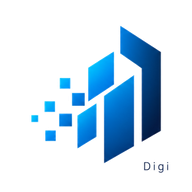
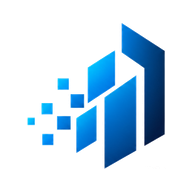
Fjern Digi-merket fra fane- og hjemskjermikon.
Forrige ikonfil hadde «Digi» nederst til høyre, så fanen og
iPhone-snarveien viste feil merke. Ikonene bygges nå fra
ProTop-symbolet uten det vannmerket, og cache-versjon er 7.

Changed region(s): [[0.125, 0.125, 0.875, 0.875], [0.75, 0.8438, 0.9062, 0.9062], [0.4688, 0.3125, 0.5312, 0.3438]]

diff --git a/scripts/generate-app-icons.js b/scripts/generate-app-icons.js
@@ -1,9 +1,8 @@
 /**
- * Build Expo, PWA and store icons from the approved ProTop symbol.
- * Master: brand/ProTop_symbol_square_2048.png (official square).
- * Favicons use a tighter crop so the mark is readable at 16–32 px.
- * Apple touch icons are also written at the site root — iOS looks there
- * first, and the SPA rewrite used to serve HTML as /apple-touch-icon.png.
+ * Build Expo, PWA and store icons from the ProTop mark without the Digi
+ * watermark (that word is not the product name and showed up on the tab
+ * and iPhone home-screen icon).
+ * Master: brand/ProTop_symbol_transparent.png
  * Run: node scripts/generate-app-icons.js
  * Prefer: node scripts/sync-brand-logo.js
  */
@@ -13,65 +12,106 @@ const sharp = require('sharp');
 const toIco = require('to-ico');
 
 const ROOT = path.join(__dirname, '..');
-const SOURCE = path.join(ROOT, 'brand', 'ProTop_symbol_square_2048.png');
+const SOURCE = path.join(ROOT, 'brand', 'ProTop_symbol_transparent.png');
 const WHITE_LOCKUP = path.join(ROOT, 'brand', 'ProTop_logo_white_transparent.png');
 const WHITE = { r: 255, g: 255, b: 255, alpha: 1 };
 const NAVY = { r: 7, g: 39, b: 76, alpha: 1 };
 const TRANSPARENT = { r: 0, g: 0, b: 0, alpha: 0 };
-
-/** Opaque content of the square master is ~72.4% of the canvas. */
-const MASTER_CONTENT = 0.724;
-/** Android adaptive and maskable icons keep artwork inside the center 66%. */
 const SAFE_ZONE = 0.66;
 
-let trimmedMarkCache;
+let cleanMarkCache;
 
-async function trimmedMark() {
-  if (trimmedMarkCache) return trimmedMarkCache;
+function isInk(data, i) {
+  const a = data[i + 3];
+  if (a < 16) return false;
+  return !(data[i] > 248 && data[i + 1] > 248 && data[i + 2] > 248);
+}
+
+/** Drop the small Digi letters that sit bottom-right of the symbol file. */
+async function cleanMark() {
+  if (cleanMarkCache) return cleanMarkCache;
   const { data, info } = await sharp(SOURCE)
     .ensureAlpha()
     .raw()
     .toBuffer({ resolveWithObject: true });
   const { width: w, height: h } = info;
+  const n = w * h;
+  const ink = new Uint8Array(n);
+  for (let p = 0; p < n; p++) ink[p] = isInk(data, p * 4) ? 1 : 0;
+  const label = new Int32Array(n).fill(-1);
+  const sizes = [];
+  const cx = [];
+  const cy = [];
+  let cid = 0;
+  const neigh = [[1, 0], [-1, 0], [0, 1], [0, -1], [1, 1], [1, -1], [-1, 1], [-1, -1]];
+  for (let p = 0; p < n; p++) {
+    if (!ink[p] || label[p] !== -1) continue;
+    let sz = 0;
+    let sx = 0;
+    let sy = 0;
+    const stack = [p];
+    label[p] = cid;
+    while (stack.length) {
+      const cur = stack.pop();
+      const x = cur % w;
+      const y = (cur / w) | 0;
+      sz += 1;
+      sx += x;
+      sy += y;
+      for (const [dx, dy] of neigh) {
+        const nx = x + dx;
+        const ny = y + dy;
+        if (nx < 0 || ny < 0 || nx >= w || ny >= h) continue;
+        const q = ny * w + nx;
+        if (ink[q] && label[q] === -1) {
+          label[q] = cid;
+          stack.push(q);
+        }
+      }
+    }
+    sizes.push(sz);
+    cx.push(sx / sz);
+    cy.push(sy / sz);
+    cid += 1;
+  }
+  const largest = Math.max(0, ...sizes);
+  const drop = new Set();
+  for (let i = 0; i < sizes.length; i++) {
+    if (sizes[i] < largest * 0.15 && cx[i] > w * 0.55 && cy[i] > h * 0.72) drop.add(i);
+  }
   let minX = w;
   let minY = h;
   let maxX = 0;
   let maxY = 0;
-  for (let y = 0; y < h; y++) {
-    for (let x = 0; x < w; x++) {
-      const i = (y * w + x) * 4;
-      const a = data[i + 3];
-      if (a < 12) continue;
-      const r = data[i];
-      const g = data[i + 1];
-      const b = data[i + 2];
-      if (r > 250 && g > 250 && b > 250) continue;
-      if (x < minX) minX = x;
-      if (y < minY) minY = y;
-      if (x > maxX) maxX = x;
-      if (y > maxY) maxY = y;
+  for (let p = 0; p < n; p++) {
+    if (drop.has(label[p])) {
+      data[p * 4 + 3] = 0;
+      continue;
     }
+    if (!ink[p] || drop.has(label[p])) continue;
+    const x = p % w;
+    const y = (p / w) | 0;
+    if (x < minX) minX = x;
+    if (y < minY) minY = y;
+    if (x > maxX) maxX = x;
+    if (y > maxY) maxY = y;
   }
-  const bw = Math.max(1, maxX - minX + 1);
-  const bh = Math.max(1, maxY - minY + 1);
-  const side = Math.max(bw, bh);
-  const left = minX - Math.floor((side - bw) / 2);
-  const top = minY - Math.floor((side - bh) / 2);
-  trimmedMarkCache = await sharp(SOURCE)
+  const buf = Buffer.from(data);
+  cleanMarkCache = await sharp(buf, { raw: { width: w, height: h, channels: 4 } })
     .extract({
-      left: Math.max(0, left),
-      top: Math.max(0, top),
-      width: Math.min(side, w - Math.max(0, left)),
-      height: Math.min(side, h - Math.max(0, top)),
+      left: minX,
+      top: minY,
+      width: Math.max(1, maxX - minX + 1),
+      height: Math.max(1, maxY - minY + 1),
     })
     .png()
     .toBuffer();
-  return trimmedMarkCache;
+  return cleanMarkCache;
 }
 
-async function placeMark(size, { padding = 0.14, opaque = true } = {}) {
+async function placeMark(size, { padding = 0.12, opaque = true } = {}) {
   const inner = Math.max(1, Math.round(size * (1 - 2 * padding)));
-  const mark = await sharp(await trimmedMark())
+  const mark = await sharp(await cleanMark())
     .resize(inner, inner, { fit: 'contain', background: TRANSPARENT })
     .png()
     .toBuffer();
@@ -90,35 +130,18 @@ async function placeMark(size, { padding = 0.14, opaque = true } = {}) {
   return image.png().toBuffer();
 }
 
-async function masterSquare(size) {
-  return sharp(SOURCE).resize(size, size, { fit: 'fill' }).png().toBuffer();
-}
-
 async function opaqueIcon(size) {
-  if (size <= 48) return placeMark(size, { padding: 0.08, opaque: true });
-  const resized = await masterSquare(size);
-  return sharp(resized).flatten({ background: WHITE }).removeAlpha().png().toBuffer();
+  const padding = size <= 48 ? 0.08 : 0.12;
+  return placeMark(size, { padding, opaque: true });
 }
 
 async function safeZoneIcon(size, { opaque = false } = {}) {
-  const inner = Math.round(size * (SAFE_ZONE / MASTER_CONTENT));
-  const mark = await masterSquare(inner);
-  const left = Math.round((size - inner) / 2);
-  let image = sharp({
-    create: {
-      width: size,
-      height: size,
-      channels: 4,
-      background: opaque ? WHITE : TRANSPARENT,
-    },
-  }).composite([{ input: mark, left, top: left }]);
-  if (opaque) image = image.flatten({ background: WHITE }).removeAlpha();
-  return image.png().toBuffer();
+  return placeMark(size, { padding: (1 - SAFE_ZONE) / 2, opaque });
 }
 
 async function notificationGlyph(size) {
-  const { data, info } = await sharp(SOURCE)
-    .resize(size, size, { fit: 'fill' })
+  const { data, info } = await sharp(await cleanMark())
+    .resize(size, size, { fit: 'contain', background: TRANSPARENT })
     .ensureAlpha()
     .raw()
     .toBuffer({ resolveWithObject: true });

diff --git a/index.html b/index.html
@@ -9,11 +9,11 @@
   <meta name="description" content="ProTop. Digitale løsninger for bygg og anlegg.">
   <meta name="theme-color" content="#ffffff" media="(prefers-color-scheme: light)">
   <meta name="theme-color" content="#07274c" media="(prefers-color-scheme: dark)">
-  <link rel="icon" href="favicon.ico?v=protop6" sizes="any" data-brand-icon>
-  <link rel="icon" type="image/png" sizes="32x32" href="icons/icon-32.png?v=protop6">
-  <link rel="icon" type="image/png" sizes="192x192" href="icons/icon-192.png?v=protop6">
-  <link rel="apple-touch-icon" href="apple-touch-icon.png?v=protop6">
-  <link rel="apple-touch-icon" sizes="180x180" href="apple-touch-icon.png?v=protop6">
+  <link rel="icon" href="favicon.ico?v=protop7" sizes="any" data-brand-icon>
+  <link rel="icon" type="image/png" sizes="32x32" href="icons/icon-32.png?v=protop7">
+  <link rel="icon" type="image/png" sizes="192x192" href="icons/icon-192.png?v=protop7">
+  <link rel="apple-touch-icon" href="apple-touch-icon.png?v=protop7">
+  <link rel="apple-touch-icon" sizes="180x180" href="apple-touch-icon.png?v=protop7">
   <meta name="apple-mobile-web-app-capable" content="yes">
   <meta name="apple-mobile-web-app-title" content="ProTop">
   <link rel="manifest" href="site.webmanifest">

diff --git a/scripts/stamp-build.js b/scripts/stamp-build.js
@@ -2,7 +2,7 @@ const fs = require('fs');
 const path = require('path');
 const { resolveBuildId } = require('./resolve-build-id');
 
-const ICON_VERSION = '6';
+const ICON_VERSION = '7';
 const PLACEHOLDER_BUILD_ID = '20261005-local-preview';
 
 function upsertHeadTags(html, tags) {
